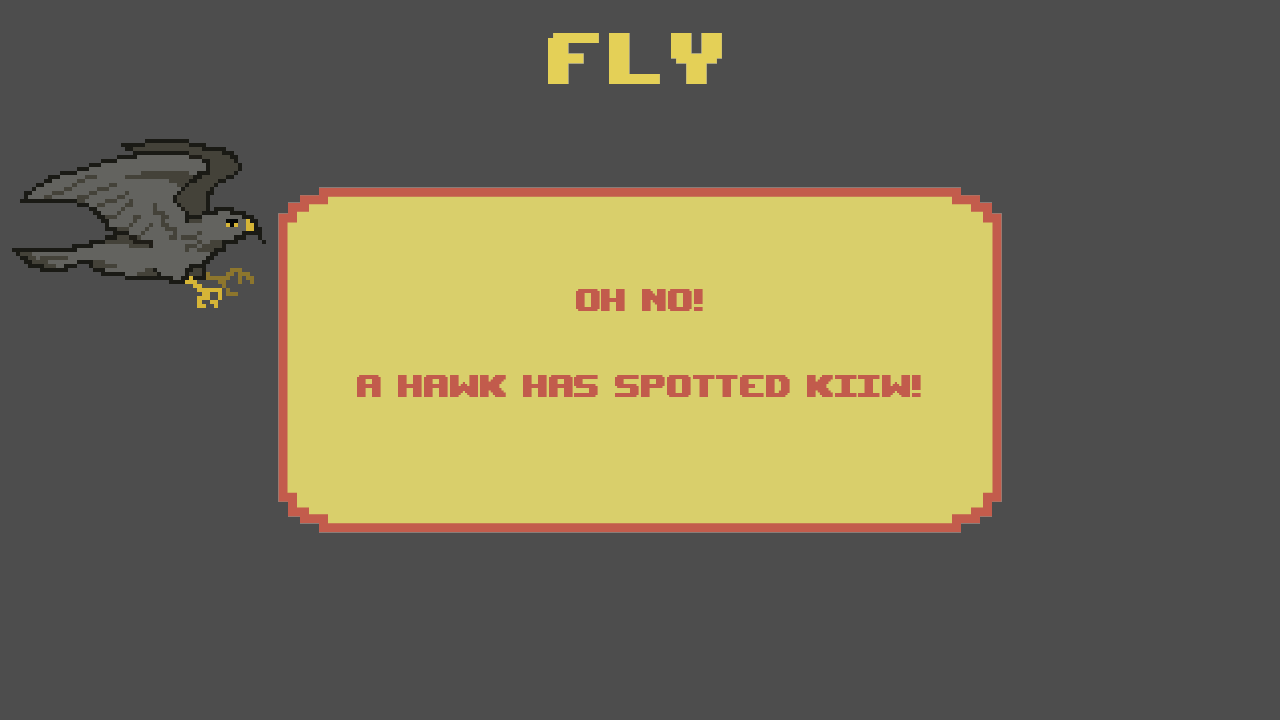
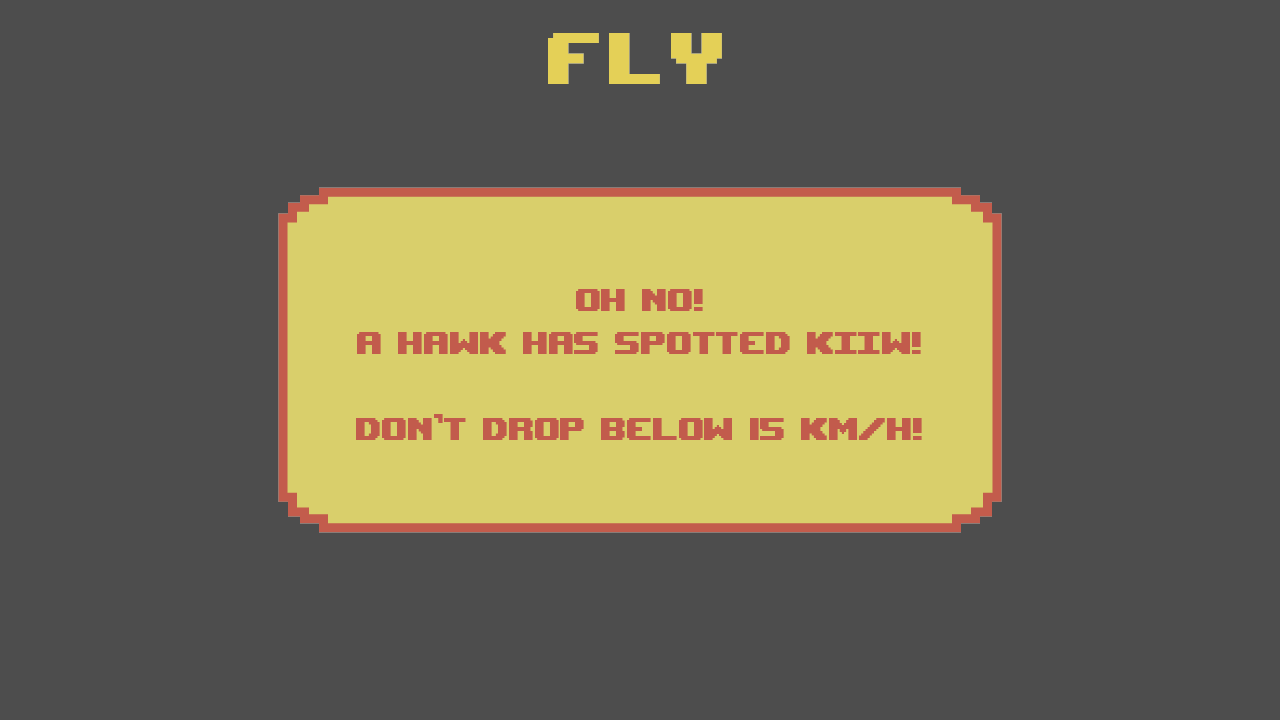
Correcciones

diff --git a/core/src/com/mygdx/kiwiFlight/level.java b/core/src/com/mygdx/kiwiFlight/level.java
@@ -45,12 +45,12 @@ public class level extends ScreenAdapter {
     private static final float EFFECTS_VOLUME_DEFAULT = 1;
     private static final int COINS_DEFAULT = 0;
     private static final String ACTUAL_SKIN = "default";
-    private static final float FRAME_DURATION = 0.4f;
+    private static final float FRAME_DURATION = 0.1f;
     private static final int WINNING_TILE_HEIGHT = 133;
     private static final int WINNING_TILE_WIDTH = 200;
     private static final int LOOSING_TILE_HEIGHT = 140;
     private static final int LOOSING_TILE_WIDTH = 237;
-    private static final float LOOSE_FRAME_DURATION = 0.2F;
+    private static final float LOOSE_FRAME_DURATION = 0.1F;
     private static int LEVEL;
     private static final float DEFAULT_CHUNCK_SIZE = 11 ;
 
@@ -280,12 +280,12 @@ public class level extends ScreenAdapter {
         kiiw.setPosition(WORLD_WIDTH/4,97*padCounter+kiiw.RADIUS);
 
         TextureRegion [][] kiwiWinningTextures = new TextureRegion(kiiwWinningTexture).split(WINNING_TILE_WIDTH, WINNING_TILE_HEIGHT);
-        winningAnimation = new Animation(FRAME_DURATION, kiwiWinningTextures[0][0], kiwiWinningTextures[0][1],kiwiWinningTextures[0][2],kiwiWinningTextures[0][3],kiwiWinningTextures[0][4],kiwiWinningTextures[0][5],kiwiWinningTextures[0][6],kiwiWinningTextures[0][7],kiwiWinningTextures[0][8],kiwiWinningTextures[0][9],kiwiWinningTextures[0][10],kiwiWinningTextures[0][11],kiwiWinningTextures[0][12],kiwiWinningTextures[0][13],kiwiWinningTextures[0][14],kiwiWinningTextures[0][15]);
-        winningAnimation.setPlayMode(Animation.PlayMode.LOOP);
+        winningAnimation = new Animation(FRAME_DURATION, kiwiWinningTextures[0][0], kiwiWinningTextures[0][1],kiwiWinningTextures[0][2],kiwiWinningTextures[0][3],kiwiWinningTextures[0][4],kiwiWinningTextures[0][5],kiwiWinningTextures[0][6],kiwiWinningTextures[0][7],kiwiWinningTextures[0][8],kiwiWinningTextures[0][9],kiwiWinningTextures[0][10],kiwiWinningTextures[0][11],kiwiWinningTextures[0][12],kiwiWinningTextures[0][13],kiwiWinningTextures[0][14],kiwiWinningTextures[0][15],kiwiWinningTextures[0][16],kiwiWinningTextures[0][17],kiwiWinningTextures[0][18],kiwiWinningTextures[0][19]);
+        winningAnimation.setPlayMode(Animation.PlayMode.NORMAL);
 
         TextureRegion [][] kiwiLoosingTextures = new TextureRegion(kiiwLoosingTexture).split(LOOSING_TILE_WIDTH, LOOSING_TILE_HEIGHT);
-        loosingAnimation = new Animation(LOOSE_FRAME_DURATION, kiwiLoosingTextures[0][0], kiwiLoosingTextures[0][1],kiwiLoosingTextures[0][2],kiwiLoosingTextures[0][3],kiwiLoosingTextures[0][4],kiwiLoosingTextures[0][5],kiwiLoosingTextures[0][6],kiwiLoosingTextures[0][7],kiwiLoosingTextures[0][8],kiwiLoosingTextures[0][9],kiwiLoosingTextures[0][10],kiwiLoosingTextures[0][11],kiwiLoosingTextures[0][12],kiwiLoosingTextures[0][13],kiwiLoosingTextures[0][14],kiwiLoosingTextures[0][15]);
-        loosingAnimation.setPlayMode(Animation.PlayMode.LOOP);
+        loosingAnimation = new Animation(LOOSE_FRAME_DURATION, kiwiLoosingTextures[0][0], kiwiLoosingTextures[0][1],kiwiLoosingTextures[0][2],kiwiLoosingTextures[0][3],kiwiLoosingTextures[0][4],kiwiLoosingTextures[0][5],kiwiLoosingTextures[0][6],kiwiLoosingTextures[0][7],kiwiLoosingTextures[0][8],kiwiLoosingTextures[0][9],kiwiLoosingTextures[0][10],kiwiLoosingTextures[0][11],kiwiLoosingTextures[0][12],kiwiLoosingTextures[0][13],kiwiLoosingTextures[0][14],kiwiLoosingTextures[0][15],kiwiLoosingTextures[0][16],kiwiLoosingTextures[0][17],kiwiLoosingTextures[0][18],kiwiLoosingTextures[0][19]);
+        loosingAnimation.setPlayMode(Animation.PlayMode.NORMAL);
 
         Array<Texture> textures = new Array<Texture>();
 
@@ -319,7 +319,7 @@ public class level extends ScreenAdapter {
         if(LEVEL == 1)speedNeeded = 25;
         else if( LEVEL == 2)speedNeeded = 30;
         else if (LEVEL == 3)speedNeeded = 35;
-        else speedNeeded = 40;
+        else speedNeeded = 65;
 
         speedBarTexture = kiwiFlight.getAssetManager().get("defaultLevels/Barra.png");
         Image speedBar = new Image(speedBarTexture);
@@ -803,8 +803,8 @@ public class level extends ScreenAdapter {
     }
 
     private void updateKiiwWinAnimation() {
-        winingKiiwX += 3;
-        winingKiiwY += 0.7;
+        winingKiiwX += 3.8;
+        winingKiiwY += 0.9;
     }
 
 

diff --git a/core/src/com/mygdx/kiwiFlight/ShopScreen.java b/core/src/com/mygdx/kiwiFlight/ShopScreen.java
@@ -251,13 +251,13 @@ class ShopScreen extends ScreenAdapter {
             crownSkinButtonTexture = new Texture(Gdx.files.internal("shop/crownKiwiSold.png"));
             crownSkinButtonPressTexture = new Texture(Gdx.files.internal("shop/crownKiwiSold.png"));
             ImageButton crown = new ImageButton(new TextureRegionDrawable(new TextureRegion(crownSkinButtonTexture)), new TextureRegionDrawable(new TextureRegion(crownSkinButtonPressTexture)));
-            crown.setPosition(WORLD_WIDTH / 2 + 350, WORLD_HEIGHT / 2 - 180);
+            crown.setPosition(WORLD_WIDTH / 2 + 350, WORLD_HEIGHT / 2 - 200);
             stage.addActor(crown);
         }else {
             crownSkinButtonTexture = new Texture(Gdx.files.internal("shop/crownKiwi.png"));
             crownSkinButtonPressTexture = new Texture(Gdx.files.internal("shop/crownKiwiPress.png"));
             ImageButton crown = new ImageButton(new TextureRegionDrawable(new TextureRegion(crownSkinButtonTexture)), new TextureRegionDrawable(new TextureRegion(crownSkinButtonPressTexture)));
-            crown.setPosition(WORLD_WIDTH / 2 + 350, WORLD_HEIGHT / 2 - 180);
+            crown.setPosition(WORLD_WIDTH / 2 + 350, WORLD_HEIGHT / 2 - 200);
             crown.addListener(new ActorGestureListener() {
                 @Override
                 public void tap(InputEvent event, float x, float y, int count, int button) {

diff --git a/core/src/com/mygdx/kiwiFlight/EndingTransitionScreen.java b/core/src/com/mygdx/kiwiFlight/EndingTransitionScreen.java
@@ -91,9 +91,9 @@ public class EndingTransitionScreen extends ScreenAdapter {
 
 
 
-        story11.addAction(sequence(delay(0), fadeIn(2),delay(4), fadeOut(1)));
+        story11.addAction(sequence(delay(0), fadeIn(4),delay(4), fadeOut(1)));
 
-        ending.addAction(sequence(delay(7), fadeIn(1),delay(2), fadeOut(1), run(new Runnable() {
+        ending.addAction(sequence(delay(9), fadeIn(1),delay(2), fadeOut(1), run(new Runnable() {
             @Override
             public void run() {
                 kiwiFlight.setScreen(new StartScreen(kiwiFlight));
